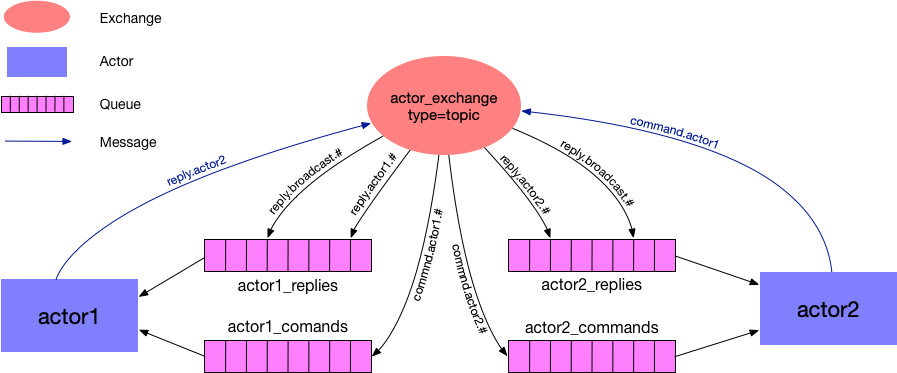
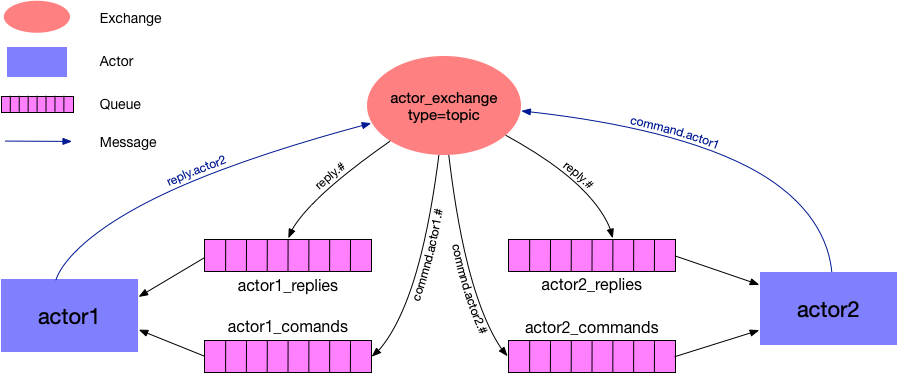
Do not explecitely subscribe to broadcasts

diff --git a/python/clu/actor.py b/python/clu/actor.py
@@ -7,7 +7,7 @@
 # @License: BSD 3-clause (http://www.opensource.org/licenses/BSD-3-Clause)
 #
 # @Last modified by: José Sánchez-Gallego (gallegoj@uw.edu)
-# @Last modified time: 2019-05-19 16:03:45
+# @Last modified time: 2019-05-19 17:31:13
 
 import abc
 import asyncio
@@ -365,7 +365,7 @@ class Actor(BaseActor):
         # Binds the replies queue.
         self.replies_queue = await self.connection.add_queue(
             f'{self.name}_replies', callback=self.handle_reply,
-            bindings=[f'reply.{self.name}.#', 'reply.broadcast.#'])
+            bindings=[f'reply.#'])
 
         self.log.info(f'replies queue {self.replies_queue.name!r} bound '
                       f'to {self.connection.connection.url!s}')
@@ -433,11 +433,11 @@ class Actor(BaseActor):
             message_code = None
             self.log.warning(f'received message without message_code: {message}')
 
+        sender = headers['sender']
         command_id = message.correlation_id
-        routing_key = message.routing_key
 
-        # Ignores broadcast that come from this actor.
-        if 'broadcast' in routing_key and self.name in routing_key:
+        # Ignores message from self.
+        if self.name == sender:
             return
 
         # If the command is running we check if the message code indicates

diff --git a/docs/sphinx/new-actor.rst b/docs/sphinx/new-actor.rst
@@ -3,6 +3,8 @@
     :class: underline
 
 
+.. _new-actors:
+
 The AMQP actor
 ==============
 
@@ -11,6 +13,7 @@ The new-style actor that CLU introduces uses the `AMQP <https://www.amqp.org/>`_
 
 .. include:: why.rst
 
+.. _new-actors-how:
 
 How does the new actor work?
 ----------------------------
@@ -35,7 +38,7 @@ This may look daunting so let's break it into smaller pieces:
 
 - We have two actors that are both producers (i.e., can send messages) and consumers (can receive messages). Messages can either be commands or replies.
 - There is a global exchange, ``actor_exchange`` used both to send commands and replies. The exchange is of type `topic <https://www.rabbitmq.com/tutorials/tutorial-five-python.html>`_, which  allow queues to subscribe to them and receive only messages that match a certain *routing key*.
-- Each actor has a queue for commands and another for replies. The command queue (``<actor>_commands``) only gets messages whose routing key contains the key ``command`` and the name of the actor, and ignores all other command messages. Similarly, the replies queue, ``<actor>_replies``, receives messages that contain the name of the actor. The replies queue also subscribes to messages that have a routing keys ``reply.broadcast``. This enables sending a message to the replies exchange that will be received by all actors.
+- Each actor has a queue for commands and another for replies. The command queue (``<actor>_commands``) only gets messages whose routing key contains the key ``command`` and the name of the actor, and ignores all other command messages. The replies queue, ``<actor>_replies``, receives all messages with topic ``reply`` in the routing key.
 
 More actors can be added to this picture, but they all share the same basic components. This enables us to create a slightly modified `RCP <https://www.rabbitmq.com/tutorials/tutorial-six-python.html>`_ pattern in which the callback queue is fixed and we use a topic exchange instead of a direct one.
 
@@ -55,7 +58,7 @@ Communication happens through a single :underline:`topic exchange` called ``acto
 Each actor receives messages from two queues:
 
 - The commands queue must be called ``<actor>_commands``, where ``<actor>`` is the name of the actor. It subscribes to the exchange and listens to messages with ``command`` and ``<actor>`` in their routing key. Clients that are not actors do not need to have a commands queue.
-- The replies queue is called ``<actor>_replies``. It subscribes to exchange and listens to message with ``reply`` and ``<actor>`` as routing keys. It also listens to messages with the ``reply.broadcast`` routing key.
+- The replies queue is called ``<actor>_replies``. It subscribes to exchange and listens to message with a ``reply`` routing key.
 
 Queues must be `exclusive <https://www.rabbitmq.com/queues.html#properties>`__ and both exchanges and queues must auto-delete when the connection is closed.
 
@@ -86,8 +89,8 @@ Replies
 
 The format for a reply to a command is as follows:
 
-- The routing key must be ``reply.<producer>`` where ``<producer>`` is the actor or client that sent the command we are replying to. If an actor wants to reply with a broadcast to all the actors connected to the exchanged, it may do so with the routing key ``reply.broadcast``.
-- The header of the message must contain the keywords ``command_id`` set to the command ID of the command we are replying to, ``commander_id`` set to the name of the commander actor, ``sender`` set to the name of the actor replying, and ``message_code`` with the message type code, which must be one of :ref:`these <message-codes>`. ``commander_id`` and ``command_id`` can be null, if it's the reply is a broadcast.
+- The routing key must be ``reply.<producer>`` where ``<producer>`` is the actor or client that sent the command we are replying to. If an actor wants to reply with a broadcast to all the actors connected to the exchanged, it may do so with the routing key ``reply.broadcast``. This is technically not necessary since all actors and clients receive all message with topic ``reply``, regardless of whether they have a secondary topic, but it allows finer filtering.
+- The header of the message must contain the keywords ``command_id`` set to the command ID of the command we are replying to, ``commander_id`` set to the name of the commander actor, ``sender`` set to the name of the actor replying, and ``message_code`` with the message type code, which must be one of :ref:`these <message-codes>`. ``commander_id`` and ``command_id`` can be null, if the reply is a broadcast.
 - The ``correlation_id`` must be the same as the ``command_id`` (`None` for broadcasts).
 - The content type of the message must be ``text/json``.
 - The body of the message must be a JSON string with a series of keyword-value pairs that conform to the :ref:`keyword model <keyword-model>` of the actor that is replying.
